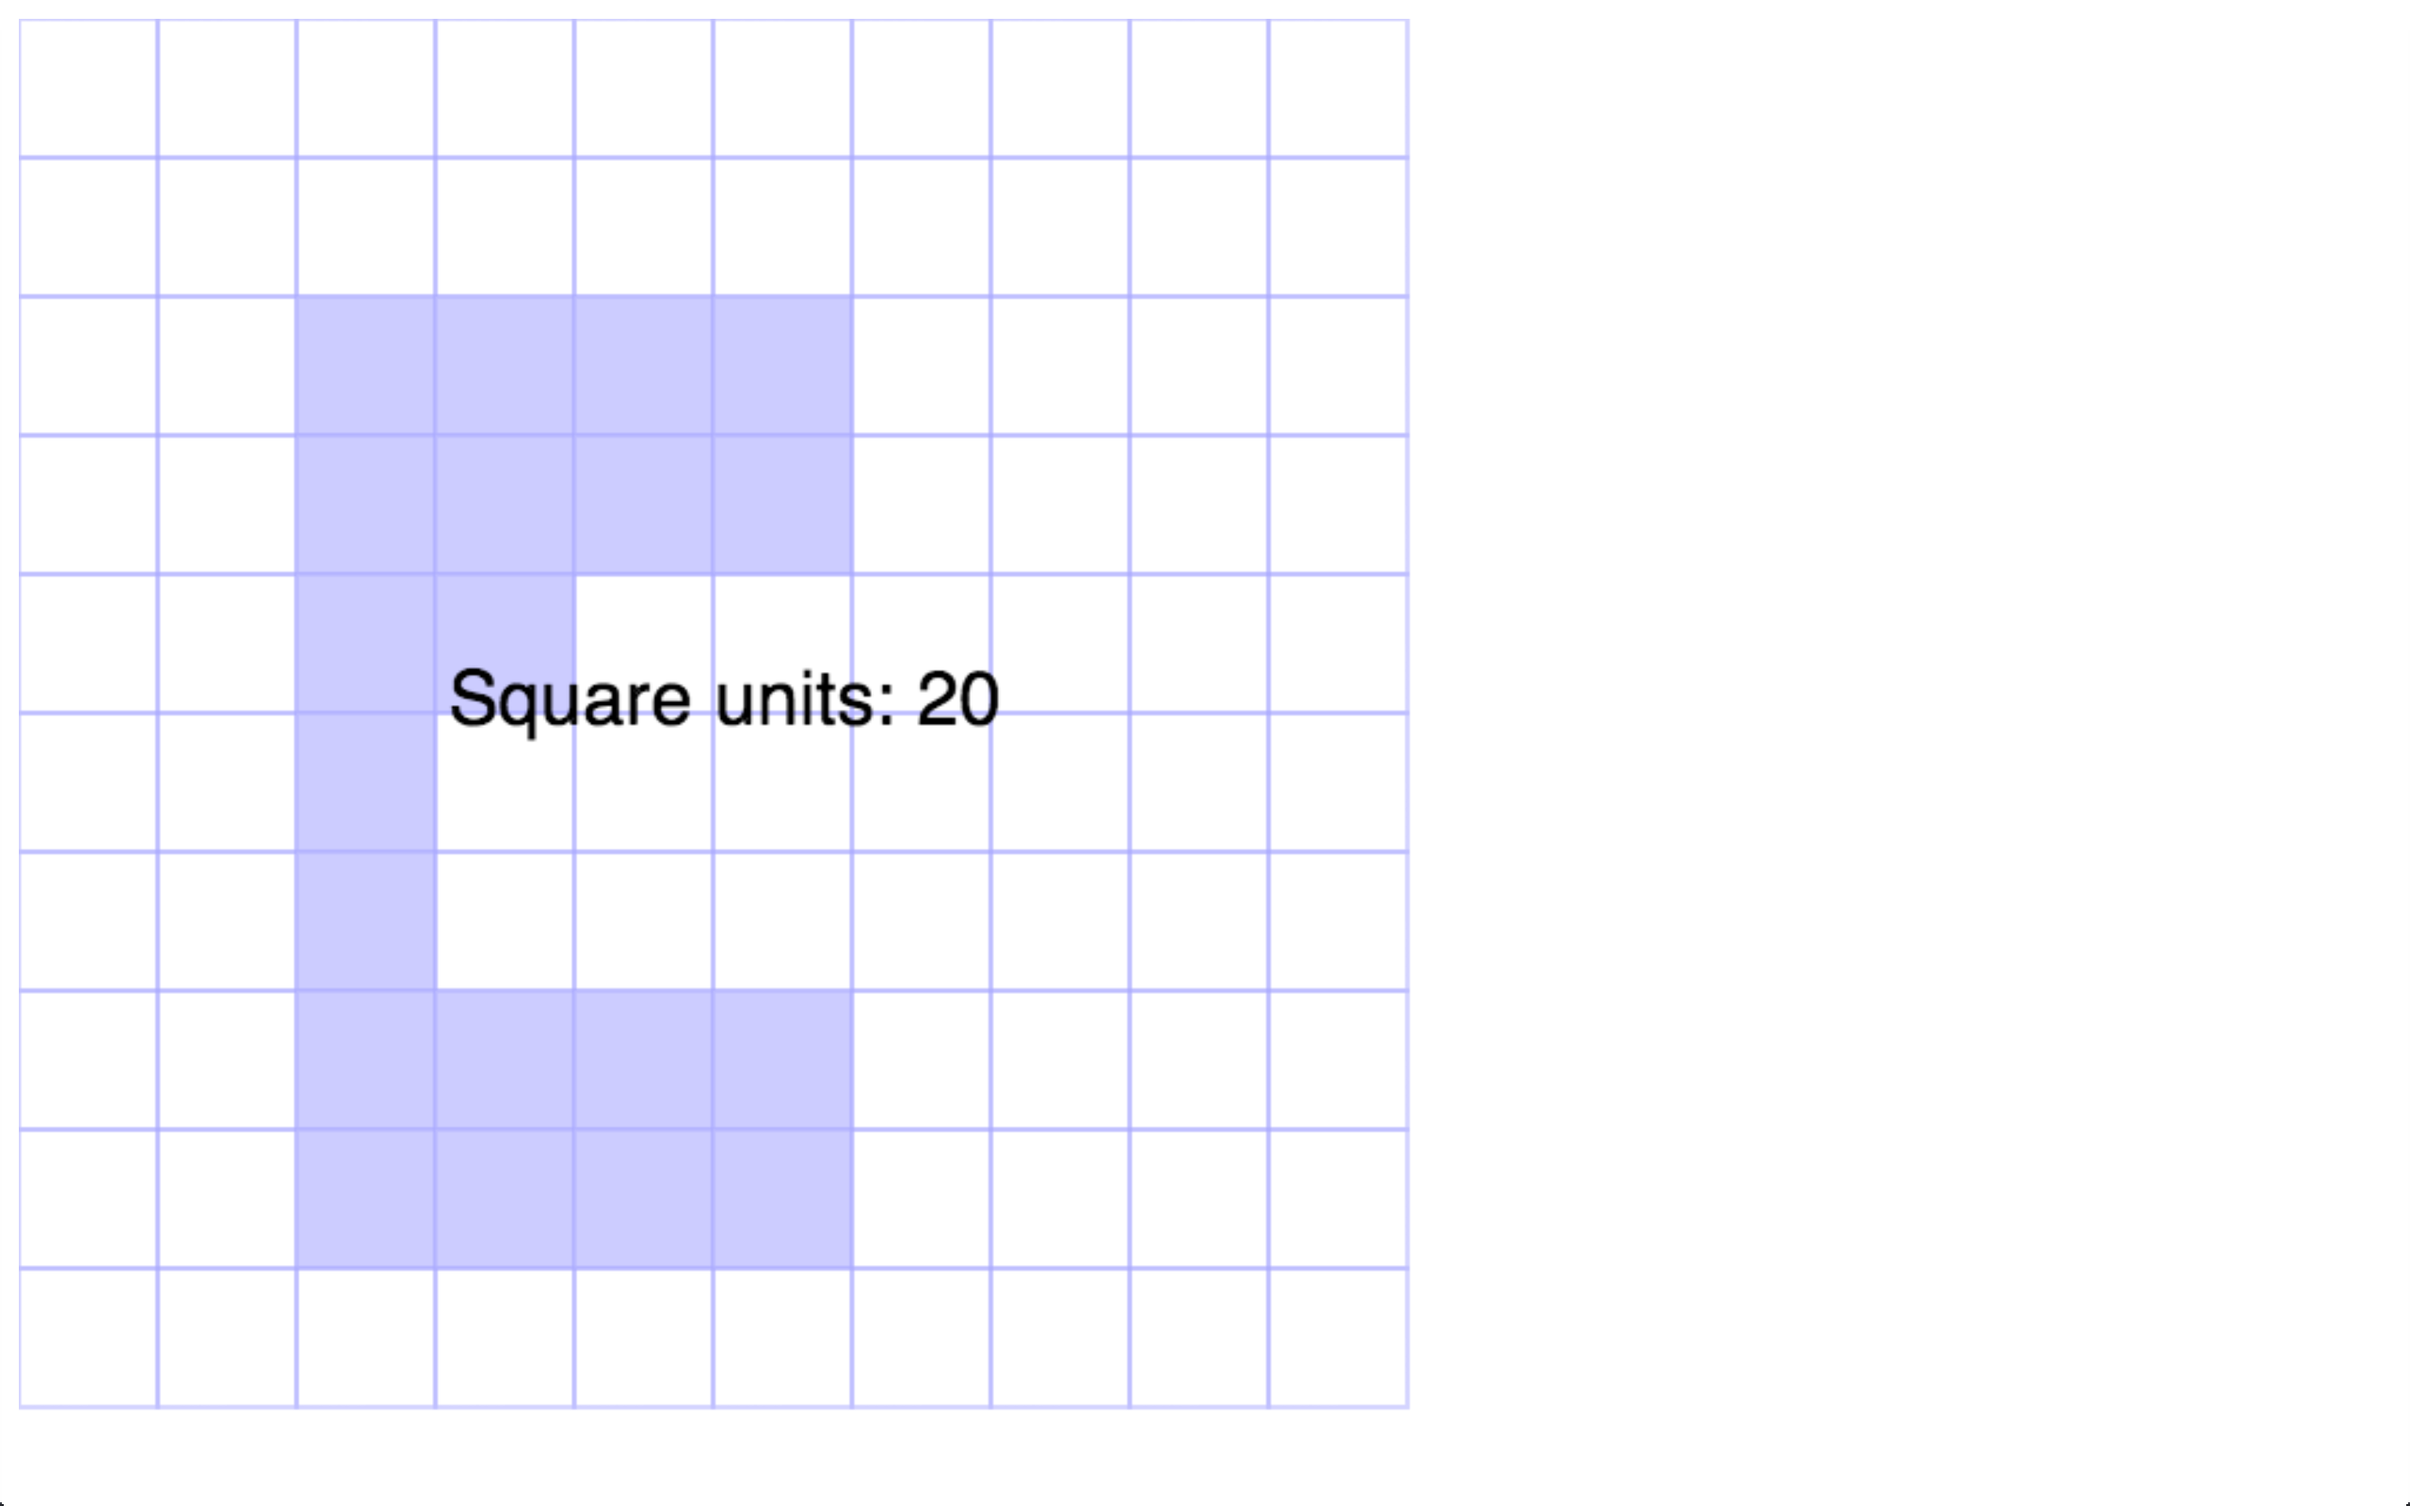
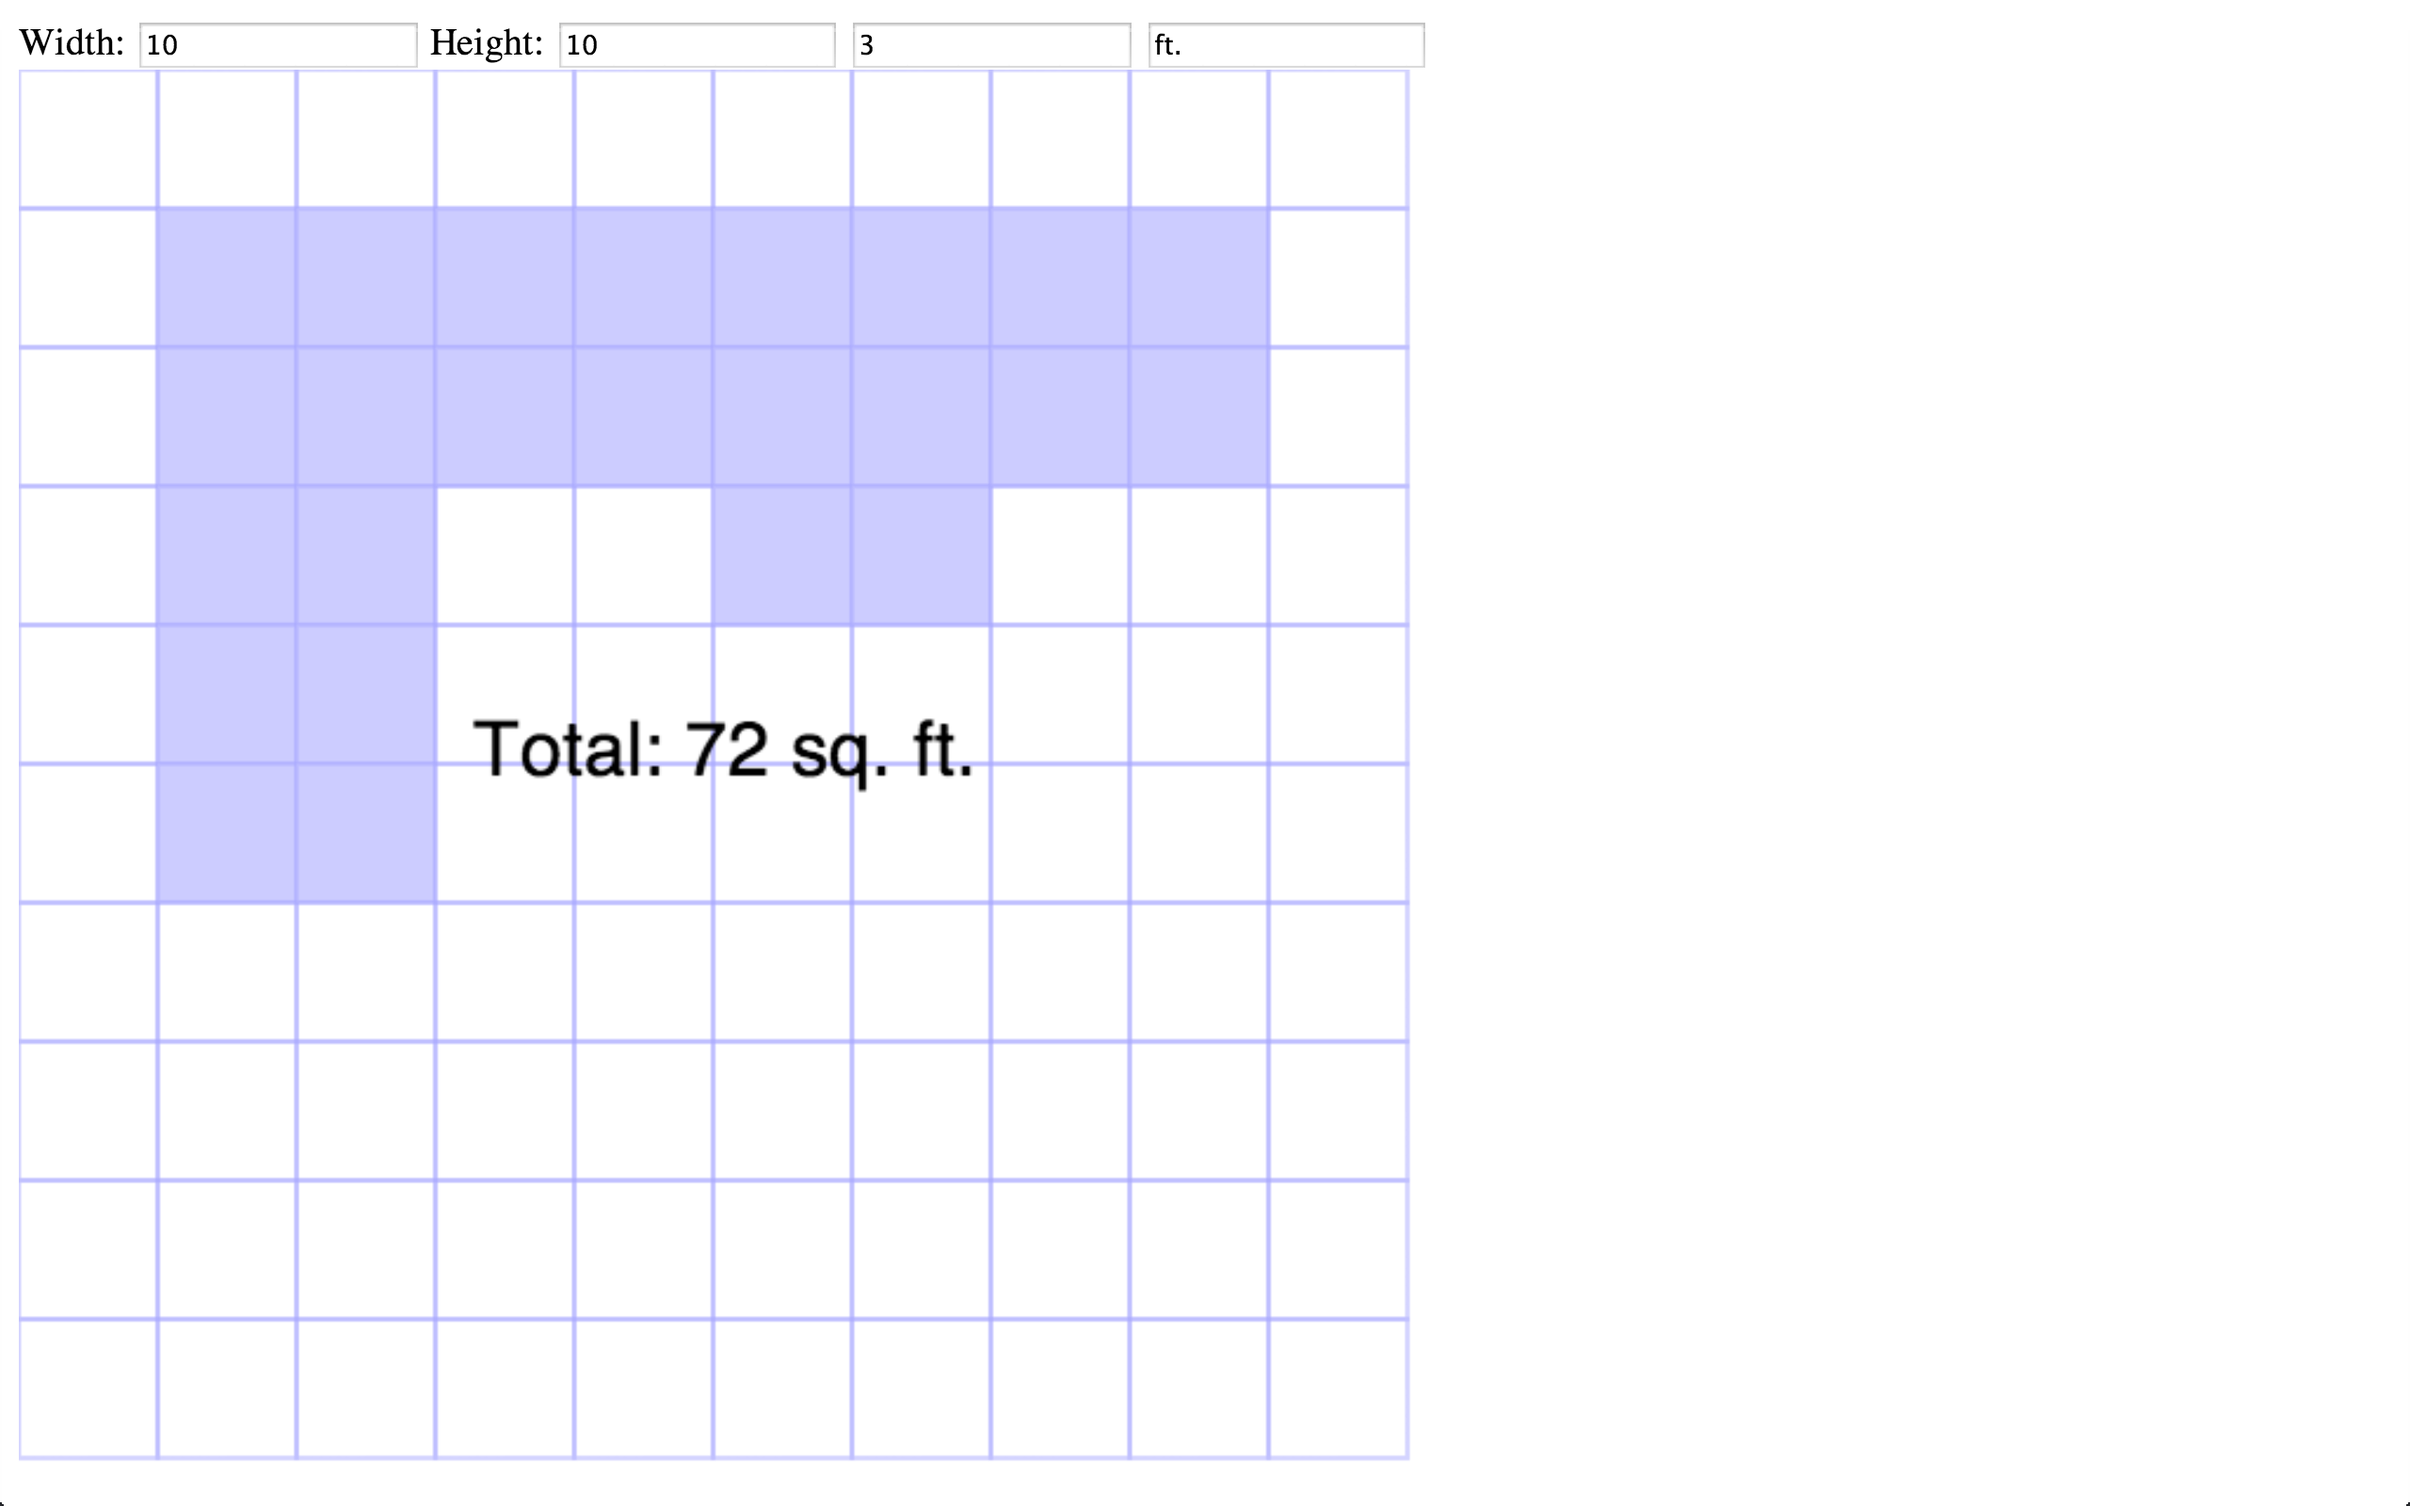
Control grid size and units.

diff --git a/js/canvas.js b/js/canvas.js
@@ -1,0 +1,111 @@
+    	var canvas = document.getElementById('myCanvas');
+      var context = canvas.getContext('2d');
+      
+      var gridWidthInput = document.getElementById('gridWidthInput');
+      var gridHeightInput = document.getElementById('gridHeightInput');
+      var gridValue = document.getElementById('gridValue');
+      var gridUnits = document.getElementById('gridUnits');      
+            
+      var filledGridX = [];
+      var filledGridY = [];
+      
+      function getSquareWidth() {
+      	return (canvas.width / gridWidthInput.value) - 1;
+      }
+      
+      function getSquareHeight() {
+      	return (canvas.height / gridHeightInput.value) - 1;
+      }
+      
+      requestAnimationFrame(update);
+      
+      function update() {
+        requestAnimationFrame(update);
+        
+        // Clear previously drawn frame.
+        context.clearRect(0, 0, canvas.width, canvas.height);
+
+				// Draw grid.
+  			context.strokeStyle = "#AAAAFF";
+  			context.fillStyle = "#CCCCFF";
+        var left = 0, top = 0;
+        for(var i = 0; i < gridWidthInput.value; i++) {
+                					
+         	for(var j = 0; j < gridHeightInput.value; j++) {
+         	
+								if ( hasGridSquareBeenClicked( i, j ) ) {
+		          		context.fillRect (left, top, getSquareWidth(), getSquareHeight());								
+								}         	   		
+
+          	context.strokeRect (left, top, getSquareWidth(), getSquareHeight());          	
+          	
+  					top += getSquareHeight();
+        	}       
+  				left += getSquareWidth();  
+  				top = 0;					
+        	
+        }
+        
+        // Draw calculated size reading.
+        context.lineWidth=1;
+        context.fillStyle="#000000";
+        context.font="32px sans-serif";
+        context.textAlign = 'center';
+        
+        var units = filledGridX.length;
+        var unitValue = gridValue.value;
+        var squareUnits = units * unitValue;
+        
+        context.fillText("Total: " 
+        	+ squareUnits 
+        	+ " sq. " + gridUnits.value, canvas.width / 2, canvas.height / 2);
+
+      }
+      
+      function hasGridSquareBeenClicked(gridX, gridY) {
+         	   for(var n = 0; n < filledGridX.length; n++) {
+         	   		var clickedGridX = filledGridX[n];
+         	   		var clickedGridY = filledGridY[n];
+								if ( clickedGridX == gridX && clickedGridY == gridY ) {
+		          		return true;							
+								}         	   		
+         	   }      
+         	   return false;
+      }
+
+			var mouseDown = 0;
+			context.canvas.onmousedown = function(event) { 
+    		mouseDown = 1;
+    		
+      	fillSquare(event);
+			}
+			context.canvas.onmouseup = function(event) {
+    		mouseDown = 0;
+			}
+
+      context.canvas.onmousemove = function(event) {
+      	if (!mouseDown) {
+      		return;
+      	}
+      	
+      	fillSquare(event);
+      };
+      
+      function fillSquare(event) {
+    
+        event = event || window.event;
+        var x = event.pageX - context.canvas.offsetLeft;
+        var y = event.pageY - context.canvas.offsetTop;
+        
+        var gridX = Math.floor(x / getSquareWidth());
+        var gridY = Math.floor(y / getSquareHeight());
+        
+        console.log("gridX: " + gridX);
+        console.log("gridY: " + gridY);
+        
+        if ( !hasGridSquareBeenClicked(gridX, gridY) ) {
+        	filledGridX.push(gridX);
+        	filledGridY.push(gridY);
+        }      
+      
+      }

diff --git a/index.html b/index.html
@@ -2,96 +2,15 @@
 <html>
   <head><title>SuperPraise</title></head>
   <body>
+  	<form>
+  		Width:
+  		<input type="text" id="gridWidthInput" value="10" />
+  		Height:
+  		<input type="text" id="gridHeightInput" value="10" />			  		
+  		<input type="text" id="gridValue" value="3" />
+  		<input type="text" id="gridUnits" value="ft." />
+  	</form>
     <canvas id="myCanvas" width="600" height="600" ></canvas>
-    <script>
-    	var canvas = document.getElementById('myCanvas');
-      var context = canvas.getContext('2d');
-      
-      var gridWidth = 10;
-      var gridHeight = 10;
-      var squareWidth = (canvas.width / gridWidth) - 1;
-      var squareHeight = (canvas.height / gridHeight) - 1;
-      
-      var filledGridX = [];
-      var filledGridY = [];
-      
-      requestAnimationFrame(update);
-      
-      function update() {
-        requestAnimationFrame(update);
-        
-        // Clear previously drawn frame.
-        context.clearRect(0, 0, canvas.width, canvas.height);
-
-				// Draw grid.
-  			context.strokeStyle = "#AAAAFF";
-  			context.fillStyle = "#CCCCFF";
-        var left = 0, top = 0;
-        for(var i = 0; i < gridWidth; i++) {
-                					
-         	for(var j = 0; j < gridHeight; j++) {
-         	
-								if ( hasGridSquareBeenClicked( i, j ) ) {
-		          		context.fillRect (left, top, squareWidth, squareHeight);								
-								}         	   		
-
-          	context.strokeRect (left, top, squareWidth, squareHeight);          	
-          	
-  					top += squareHeight;
-        	}       
-  				left += squareWidth;  
-  				top = 0;					
-        	
-        }
-        
-        // Draw calculated size reading.
-        context.lineWidth=1;
-        context.fillStyle="#000000";
-        context.font="32px sans-serif";
-        context.textAlign = 'center';
-        context.fillText("Square units: " + filledGridX.length, canvas.width / 2, canvas.height / 2);
-
-      }
-      
-      function hasGridSquareBeenClicked(gridX, gridY) {
-         	   for(var n = 0; n < filledGridX.length; n++) {
-         	   		var clickedGridX = filledGridX[n];
-         	   		var clickedGridY = filledGridY[n];
-								if ( clickedGridX == gridX && clickedGridY == gridY ) {
-		          		return true;							
-								}         	   		
-         	   }      
-         	   return false;
-      }
-
-var mouseDown = 0;
-context.canvas.onmousedown = function() { 
-    mouseDown = 1;
-}
-context.canvas.onmouseup = function() {
-    mouseDown = 0;
-}
-
-      context.canvas.onmousemove = function(event) {
-      	if (!mouseDown) {
-      		return;
-      	}
-      
-        event = event || window.event;
-        var x = event.pageX - context.canvas.offsetLeft;
-        var y = event.pageY - context.canvas.offsetTop;
-        
-        var gridX = Math.floor(x / squareWidth);
-        var gridY = Math.floor(y / squareHeight);
-        
-        console.log("gridX: " + gridX);
-        console.log("gridY: " + gridY);
-        
-        if ( !hasGridSquareBeenClicked(gridX, gridY) ) {
-        	filledGridX.push(gridX);
-        	filledGridY.push(gridY);
-        }
-      };
-    </script>
+		<script type="text/javascript" src="js/canvas.js"></script>
   </body>
 </html>
